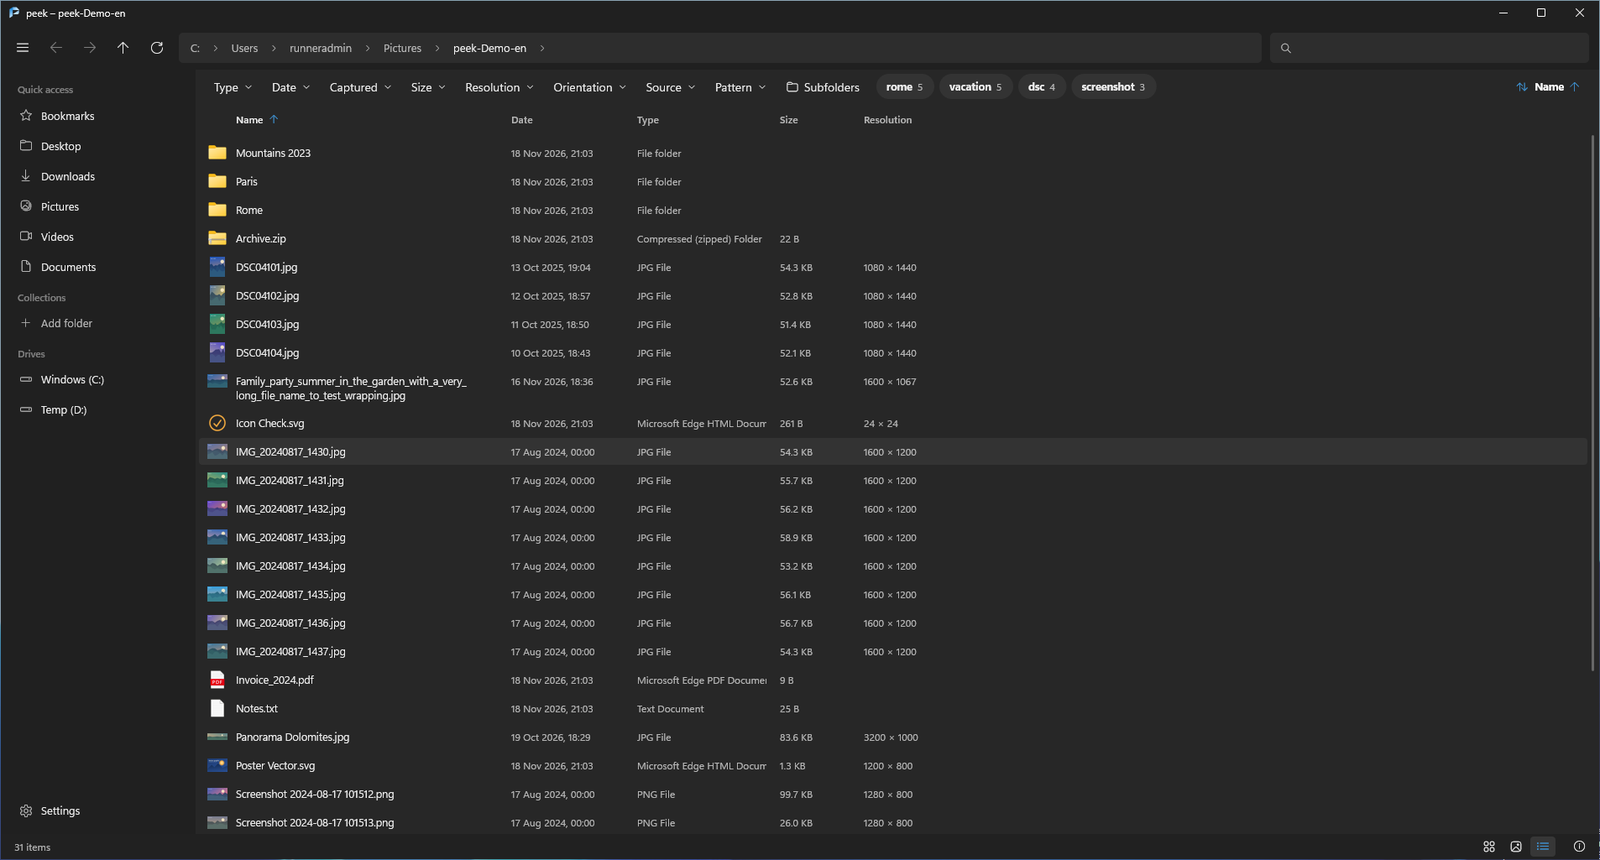
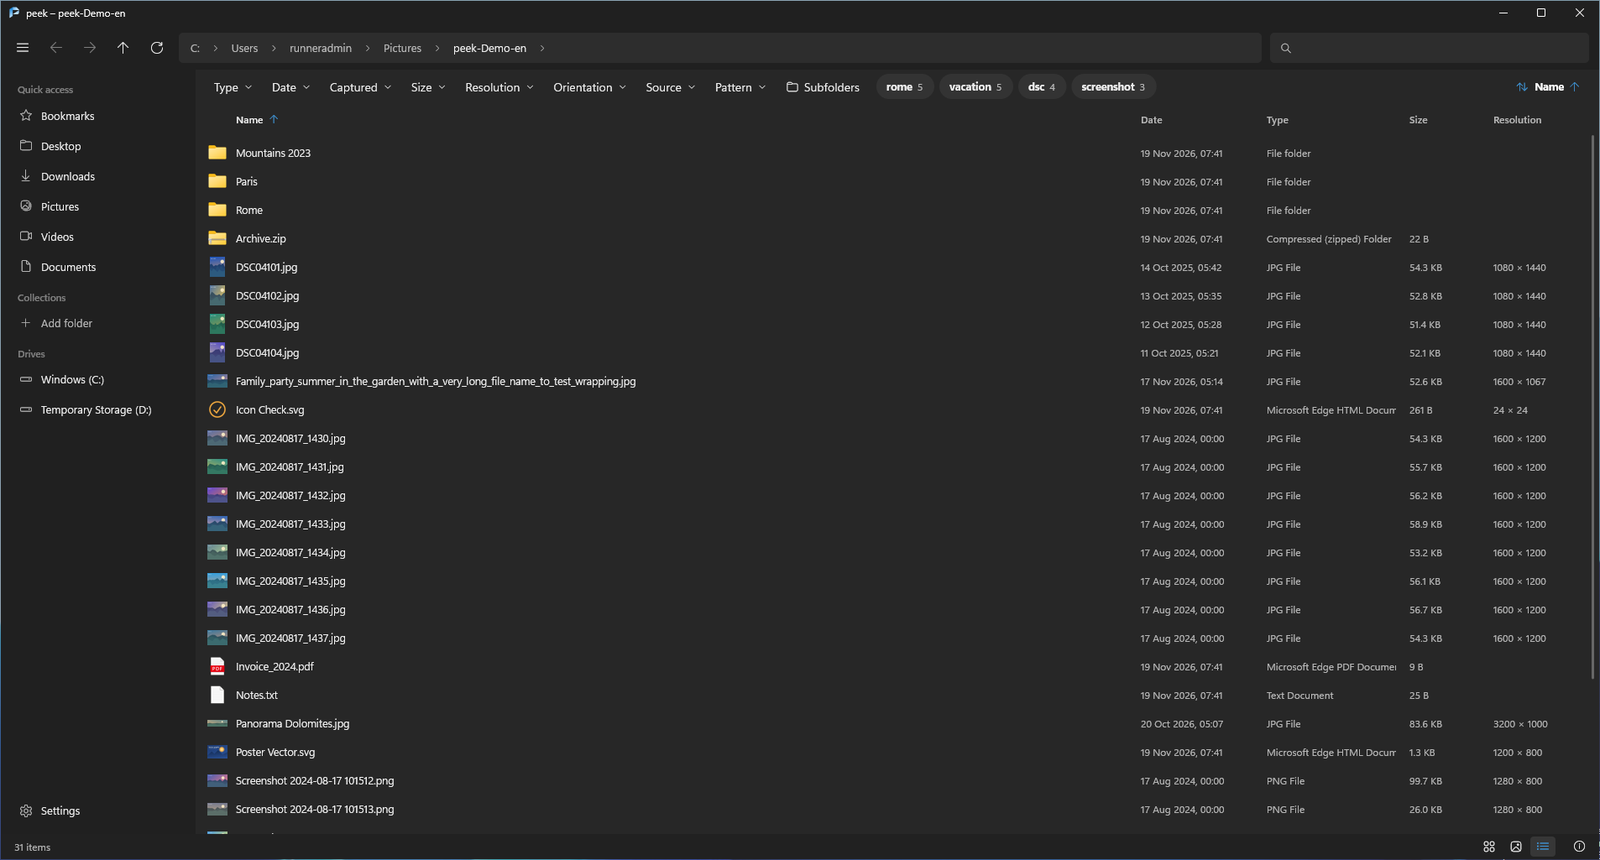
Doku zu 1.6.1: Bild der Detailansicht, Release-Notes

diff --git a/docs/release-notes/v1.6.1.md b/docs/release-notes/v1.6.1.md
@@ -1,0 +1,35 @@
+A fast, portable media viewer for Windows 11 (x64) – no installation, no admin rights, no network features.
+
+*Deutsch: siehe unten.*
+
+## Download and start
+
+1. Download `peek.exe` (or the ZIP file) and put it in any folder, e.g. on a USB stick.
+2. Start it. The file is not signed, so Windows SmartScreen shows a notice on first start: **More info → Run anyway**.
+3. Portable mode: put an empty file `peek.portable` next to `peek.exe` – index and settings (encrypted) then stay in the folder `peek-data` next to it.
+
+## New in v1.6.1
+
+- **Open with peek:** opening an image with peek (e.g. **Open with** in Explorer) now shows it directly in the image viewer. **Esc** or the close button leads to the folder in peek, with the image selected
+- **Details view:** the name column fills the window; date, type, size and resolution stay at the right edge. Change their width at their left edge
+- **Details view:** dragging on a row next to the icon and name starts a selection rectangle (dragging the name still drags the files)
+- In Explorer (e.g. **Open with**), peek is now listed simply as “peek”. Windows may keep showing the old name for a while, as it caches app names
+
+## Files
+
+| File | Contents |
+| --- | --- |
+| `peek.exe` | the app (a single file, no further dependencies) |
+| `peek-v1.6.1-x64.zip` | `peek.exe`, README (English and German), licenses and `THIRD-PARTY.txt` |
+| `peek.exe.sha256` | SHA-256 checksum |
+| `THIRD-PARTY.txt` | license notices of the bundled libraries |
+
+---
+
+## Deutsch
+
+**Neu in v1.6.1**
+- **Öffnen mit peek:** Ein Bild, das mit peek geöffnet wird (z. B. über **Öffnen mit** im Explorer), erscheint jetzt direkt im Bildbetrachter. **Esc** oder die Schließen-Schaltfläche führen zum Ordner in peek, das Bild ist markiert
+- **Detailansicht:** Die Namensspalte füllt das Fenster, Datum, Typ, Größe und Auflösung bleiben am rechten Rand. Ihre Breite ändert man an ihrer linken Kante
+- **Detailansicht:** Ziehen auf einer Zeile neben Symbol und Name beginnt ein Auswahlrechteck (Ziehen am Namen zieht weiterhin die Dateien)
+- Im Explorer (z. B. bei **Öffnen mit**) heißt peek jetzt nur noch „peek“. Windows zeigt den alten Namen eventuell noch eine Weile an, weil es App-Namen zwischenspeichert
